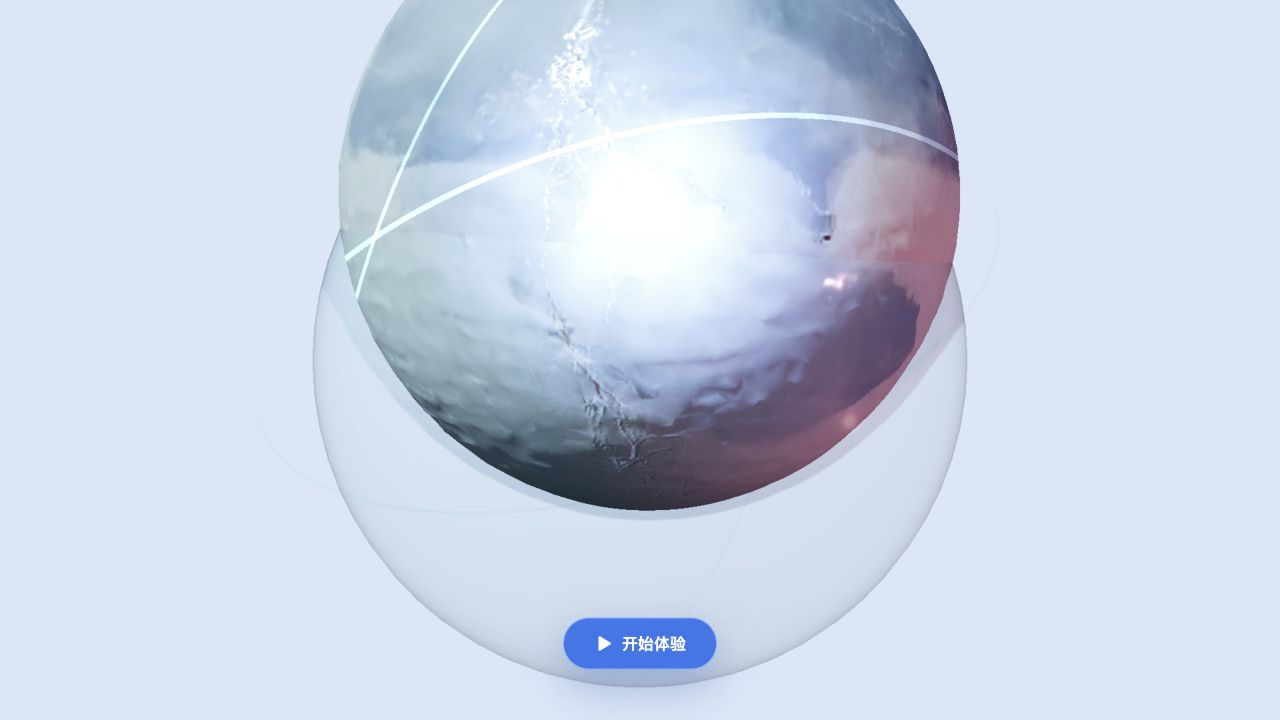
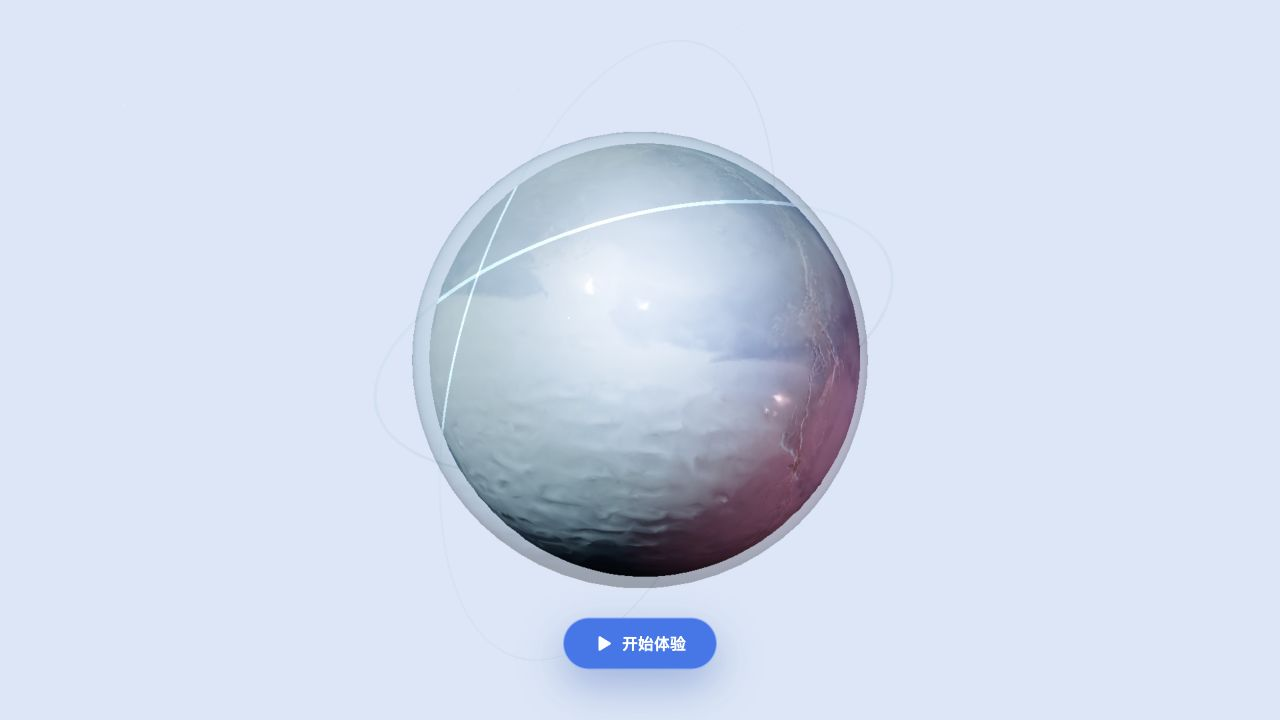
fix: restore live room and tune smile detection
Published from verified local build.

diff --git a/app/components/SmileStormExperience.tsx b/app/components/SmileStormExperience.tsx
@@ -10,8 +10,26 @@ import {
   type ErrorInfo,
   type ReactNode,
 } from "react";
+import { Broadcast } from "@phosphor-icons/react/Broadcast";
+import { CalendarDots } from "@phosphor-icons/react/CalendarDots";
+import { ChatCircleDots } from "@phosphor-icons/react/ChatCircleDots";
+import { Compass } from "@phosphor-icons/react/Compass";
+import { CornersOut } from "@phosphor-icons/react/CornersOut";
+import { Crown } from "@phosphor-icons/react/Crown";
 import { Gift } from "@phosphor-icons/react/Gift";
+import { Heart } from "@phosphor-icons/react/Heart";
+import { House } from "@phosphor-icons/react/House";
+import { MagnifyingGlass } from "@phosphor-icons/react/MagnifyingGlass";
+import { MonitorPlay } from "@phosphor-icons/react/MonitorPlay";
+import { Planet } from "@phosphor-icons/react/Planet";
 import { Play } from "@phosphor-icons/react/Play";
+import { ShareNetwork } from "@phosphor-icons/react/ShareNetwork";
+import { SpeakerHigh } from "@phosphor-icons/react/SpeakerHigh";
+import { SpeakerSlash } from "@phosphor-icons/react/SpeakerSlash";
+import { Star } from "@phosphor-icons/react/Star";
+import { StopCircle } from "@phosphor-icons/react/StopCircle";
+import { Users } from "@phosphor-icons/react/Users";
+import { VideoCamera } from "@phosphor-icons/react/VideoCamera";
 import surpriseAudioUrl from "../assets/audio/surprise.mp3?url";
 import rainAudioUrl from "../assets/audio/rain-loop.mp3?url";
 import fireworksAudioUrl from "../assets/audio/fireworks-loop.mp3?url";
@@ -179,7 +197,11 @@ export function SmileStormExperience() {
   const [fireworkSceneActive, setFireworkSceneActive] = useState(false);
   const [expressionGuideStep, setExpressionGuideStep] =
     useState<ExpressionGuideStep>("SMILE_PROMPT");
+  const [muted, setMuted] = useState(false);
   const [activeDrop, setActiveDrop] = useState<ActiveAccessoryDrop | null>(null);
+  const [liked, setLiked] = useState(false);
+  const [favorite, setFavorite] = useState(false);
+  const [searchQuery, setSearchQuery] = useState("");
   const [replayActive, setReplayActive] = useState(false);
   const [debugEnabled] = useState(
     () =>
@@ -338,6 +360,24 @@ export function SmileStormExperience() {
     setCalibrationProgress(0);
     setMetrics(defaultMetrics);
     setPhaseState("idle");
+  };
+
+  const toggleMuted = () => {
+    setMuted((current) => {
+      const next = !current;
+      ensureEffectAudio().setMuted(next);
+      return next;
+    });
+  };
+
+  const toggleLike = () => {
+    setLiked((current) => !current);
+  };
+
+  const toggleFullscreen = () => {
+    const room = document.querySelector<HTMLElement>(".live-room");
+    if (!document.fullscreenElement) void room?.requestFullscreen();
+    else void document.exitFullscreen();
   };
 
   useEffect(() => {
@@ -796,8 +836,44 @@ export function SmileStormExperience() {
   );
 
   return (
-    <main className={`experience-shell minimal-experience phase-${phase}`}>
-      <section className="minimal-stage" aria-label="表情 AR 体验">
+    <main className={`experience-shell phase-${phase}${phase === "idle" ? " minimal-experience" : " live-room-shell"}`}>
+      <section className={phase === "idle" ? "minimal-stage" : "live-room"} aria-label="表情 AR 体验">
+        {isExperienceVisible && (
+          <header className="live-room-nav">
+            <div className="live-brand" aria-label="Smile Storm Live">
+              <Broadcast size={22} weight="fill" aria-hidden="true" />
+              <strong>Smile<span>Live</span></strong>
+            </div>
+            <nav className="live-nav-links" aria-label="直播导航">
+              <button type="button"><House size={17} />首页</button>
+              <button type="button" className="active"><VideoCamera size={17} />直播</button>
+              <button type="button"><Compass size={17} />发现</button>
+              <button type="button"><CalendarDots size={17} />活动</button>
+              <button type="button"><Users size={17} />关注</button>
+            </nav>
+            <form className="live-search" onSubmit={(event) => event.preventDefault()} role="search">
+              <MagnifyingGlass size={17} aria-hidden="true" />
+              <input
+                aria-label="搜索直播、房间或内容"
+                value={searchQuery}
+                onChange={(event) => setSearchQuery(event.target.value)}
+                placeholder="搜索直播、房间或内容"
+              />
+            </form>
+            <div className="live-nav-actions">
+              <button type="button"><Crown size={17} weight="fill" />会员</button>
+              <button type="button" onClick={() => setFavorite((current) => !current)} aria-pressed={favorite}>
+                <Heart size={17} weight={favorite ? "fill" : "regular"} />收藏
+              </button>
+              <button type="button" className="go-live-button" onClick={stopExperience}>
+                <StopCircle size={18} weight="fill" />结束
+              </button>
+            </div>
+          </header>
+        )}
+
+        <div className={phase === "idle" ? "minimal-stage-content" : "live-room-grid"}>
+          <section className={phase === "idle" ? "minimal-home-stage" : "live-room-center"} aria-label="直播舞台">
             <div
               className={`live-video-frame live-stage${replayActive ? " replay-mode" : ""}`}
               ref={viewportRef}
@@ -917,20 +993,6 @@ export function SmileStormExperience() {
                 </div>
               )}
 
-              {debugEnabled && isExperienceVisible && (
-                <div className="minimal-debug-controls" aria-label="调试工具">
-                  {(phase === "calibrating" || phase === "ready") && (
-                    <button className="debug-toggle" onClick={launchDebugFireworks}>测试烟花</button>
-                  )}
-                  {phase === "ready" && (
-                    <button className="debug-toggle" onClick={launchDebugAccessory}>测试3D礼物</button>
-                  )}
-                  <button className="debug-toggle" onClick={() => setShowDebug((visible) => !visible)} aria-pressed={showDebug}>
-                    {showDebug ? "隐藏数据" : "运行数据"}
-                  </button>
-                </div>
-              )}
-
               {phase === "error" && (
                 <div className="error-panel" role="alert">
                   <span className="error-code">AR / ERROR</span>
@@ -943,6 +1005,69 @@ export function SmileStormExperience() {
                 </div>
               )}
             </div>
+
+            {isExperienceVisible && (
+              <footer className="live-room-toolbar" aria-label="直播操作栏">
+                <div className="toolbar-group toolbar-primary">
+                  <button className="round-action primary" onClick={stopExperience} aria-label="结束直播">
+                    <StopCircle size={22} weight="fill" />
+                  </button>
+                  <button className="round-action" onClick={toggleMuted} aria-pressed={muted} aria-label={muted ? "开启声音" : "关闭声音"}>
+                    {muted ? <SpeakerSlash size={20} /> : <SpeakerHigh size={20} />}
+                  </button>
+                  <button className="toolbar-button" type="button"><ChatCircleDots size={18} />弹幕开</button>
+                </div>
+                <div className="toolbar-group toolbar-social">
+                  <button className={liked ? "toolbar-button selected" : "toolbar-button"} onClick={toggleLike} aria-pressed={liked}><Heart size={19} weight={liked ? "fill" : "regular"} />点赞</button>
+                  <button className="toolbar-button" type="button"><Gift size={19} />送礼</button>
+                  <button className={favorite ? "toolbar-button selected" : "toolbar-button"} onClick={() => setFavorite((current) => !current)} aria-pressed={favorite}><Star size={19} weight={favorite ? "fill" : "regular"} />收藏</button>
+                  <button className="toolbar-button" type="button" onClick={() => void navigator.clipboard?.writeText(window.location.href)}><ShareNetwork size={19} />分享</button>
+                </div>
+                <div className="toolbar-group toolbar-view">
+                  <span className="quality-pill"><MonitorPlay size={18} />{metrics.quality === "HIGH" ? "超清" : metrics.quality}</span>
+                  {debugEnabled && (phase === "calibrating" || phase === "ready") && <button className="debug-toggle" onClick={launchDebugFireworks}>测试烟花</button>}
+                  {debugEnabled && phase === "ready" && <button className="debug-toggle" onClick={launchDebugAccessory}>测试3D礼物</button>}
+                  {debugEnabled && isExperienceVisible && (
+                    <button className="debug-toggle" onClick={() => setShowDebug((visible) => !visible)} aria-pressed={showDebug}>{showDebug ? "隐藏数据" : "运行数据"}</button>
+                  )}
+                  <button className="round-action" onClick={toggleFullscreen} aria-label="切换全屏"><CornersOut size={20} /></button>
+                </div>
+              </footer>
+            )}
+          </section>
+
+          {isExperienceVisible && (
+            <aside className="live-room-right" aria-label="直播信息与礼物">
+              <section className="live-card live-info-card">
+                <header><h3>直播信息</h3><Broadcast size={18} /></header>
+                <dl>
+                  <div><dt>直播状态</dt><dd className="is-live">直播中</dd></div>
+                  <div><dt>画质</dt><dd>720P</dd></div>
+                  <div><dt>码率</dt><dd>自适应</dd></div>
+                  <div><dt>渲染</dt><dd>{metrics.renderFps ? `${metrics.renderFps.toFixed(0)} fps` : "60 fps"}</dd></div>
+                  <div><dt>隐私</dt><dd>本机处理</dd></div>
+                </dl>
+                <p>摄像头画面仅在本机处理，不会上传或保存。</p>
+              </section>
+              <section className="live-card live-gifts-card">
+                <header><h3>AR 礼物</h3><Gift size={18} /></header>
+                <p>不需点选，只会在天气特效中低概率短暂掉落。</p>
+                <div className="gift-grid"><article><span><Planet size={28} weight="duotone" /></span><b>星轨光环</b><small>天气随机</small></article></div>
+                <div className="gift-drop-policy" aria-label="稀有礼物掉落规则">
+                  <span><b>6%/秒</b> 雨中稀有掉落</span><span><b>18%/次</b> 烟花稀有掉落</span><span><b>1 秒</b> 仅展示 1 秒</span>
+                </div>
+              </section>
+              <section className="live-card contributor-card">
+                <header><h3>礼物贡献榜</h3><Crown size={18} weight="fill" /></header>
+                <ol>
+                  <li><span>1</span><div><b>Stella</b><small>星轨守护者</small></div><strong>12.8k</strong></li>
+                  <li><span>2</span><div><b>NOVA</b><small>未来旅人</small></div><strong>9.6k</strong></li>
+                  <li><span>3</span><div><b>Cloud</b><small>风暴听众</small></div><strong>6.2k</strong></li>
+                </ol>
+              </section>
+            </aside>
+          )}
+        </div>
       </section>
     </main>
   );

diff --git a/app/globals.css b/app/globals.css
@@ -328,7 +328,8 @@ button:focus-visible { outline: 2px solid var(--cyan); outline-offset: 4px; }
 /* Minimal presentation shell: the idle screen is deliberately only the 3D core and CTA. */
 .minimal-experience { width: 100%; height: 100svh; min-height: 520px; background: #070b13; }
 .minimal-stage { position: relative; width: 100%; height: 100%; overflow: hidden; }
-.minimal-stage > .live-video-frame { width: 100%; height: 100%; min-height: 0; aspect-ratio: auto; border: 0; border-radius: 0; box-shadow: none; }
+.minimal-stage-content, .minimal-home-stage { width: 100%; height: 100%; }
+.minimal-home-stage > .live-video-frame { width: 100%; height: 100%; min-height: 0; aspect-ratio: auto; border: 0; border-radius: 0; box-shadow: none; }
 .minimal-home { position: absolute; inset: 0; overflow: hidden; background: #070b13; }
 .minimal-home .weather-core { position: absolute; inset: 0; width: 100%; height: 100%; min-height: 0; border: 0; box-shadow: none; }
 .minimal-home .weather-core::before,
@@ -336,10 +337,9 @@ button:focus-visible { outline: 2px solid var(--cyan); outline-offset: 4px; }
 .minimal-home .weather-core-vignette { display: none; }
 .minimal-start { position: absolute; z-index: 5; left: 50%; bottom: clamp(28px, 7svh, 72px); transform: translateX(-50%); min-width: 154px; min-height: 52px; justify-content: center; padding: 0 25px; border: 1px solid rgba(255,255,255,.4); background: rgba(37,111,238,.92); box-shadow: 0 16px 42px rgba(16,70,172,.34); }
 .minimal-start:hover { transform: translateX(-50%) translateY(-1px); }
-.minimal-debug-controls { position: absolute; z-index: 12; right: 18px; bottom: 18px; display: flex; gap: 8px; }
+.phase-idle { overflow: hidden; }
 
 @media (max-width: 540px) {
   .minimal-experience { min-height: 480px; }
   .minimal-start { bottom: max(24px, env(safe-area-inset-bottom)); }
-  .minimal-debug-controls { right: 10px; bottom: 10px; max-width: calc(100% - 20px); overflow-x: auto; }
 }

diff --git a/tests/expression-machine.test.ts b/tests/expression-machine.test.ts
@@ -59,6 +59,29 @@ describe("ExpressionMachine", () => {
     expect(feed(machine, smile, 200, 250).state).toBe("SMILE");
   });
 
+  it("recognizes a gentle smile without requiring an exaggerated expression", () => {
+    const machine = new ExpressionMachine({ smile: 0.05, jaw: 0.04, cheek: 0.05, mouthOpen: 0.02 });
+    feed(machine, neutral, 0, 250);
+    const gentleSmile = {
+      ...neutral,
+      mouthSmileLeft: 0.38,
+      mouthSmileRight: 0.38,
+    };
+
+    expect(feed(machine, gentleSmile, 300, 500).state).toBe("SMILE");
+  });
+
+  it("keeps a relaxed face below the lowered smile threshold neutral", () => {
+    const machine = new ExpressionMachine({ smile: 0.05, jaw: 0.04, cheek: 0.05, mouthOpen: 0.02 });
+    const relaxed = {
+      ...neutral,
+      mouthSmileLeft: 0.28,
+      mouthSmileRight: 0.28,
+    };
+
+    expect(feed(machine, relaxed, 0, 800).state).toBe("NEUTRAL");
+  });
+
   it("gives laugh priority, launches once, and stays latched until neutral", () => {
     const machine = new ExpressionMachine({ smile: 0.05, jaw: 0.04, cheek: 0.05, mouthOpen: 0.02 });
     const laugh = {

diff --git a/app/components/WeatherCoreHero.tsx b/app/components/WeatherCoreHero.tsx
@@ -35,7 +35,8 @@ export function WeatherCoreHero() {
     const scene = new THREE.Scene();
     scene.fog = new THREE.FogExp2(0x050811, 0.075);
     const camera = new THREE.PerspectiveCamera(33, 1, 0.1, 100);
-    camera.position.set(0, 0, 4.15);
+    camera.position.set(0, 0, 5.85);
+    camera.lookAt(0, 0, 0);
 
     let renderer: THREE.WebGLRenderer;
     try {
@@ -134,8 +135,9 @@ export function WeatherCoreHero() {
         const box = new THREE.Box3().setFromObject(model);
         const size = box.getSize(new THREE.Vector3());
         const center = box.getCenter(new THREE.Vector3());
-        model.position.sub(center);
-        model.scale.setScalar(2.05 / Math.max(size.x, size.y, size.z));
+        const scaleFactor = 2.05 / Math.max(size.x, size.y, size.z);
+        model.scale.setScalar(scaleFactor);
+        model.position.copy(center).multiplyScalar(-scaleFactor);
         model.rotation.set(0.04, -0.3, -0.03);
         model.traverse((child) => {
           if (!(child instanceof THREE.Mesh)) return;

diff --git a/app/lib/expression-machine.ts b/app/lib/expression-machine.ts
@@ -98,7 +98,7 @@ export class ExpressionMachine {
     const mouthOpenRatio = this.smoothed.mouthOpenRatio;
     const teethVisibility = this.smoothed.teethVisibility;
 
-    const smileEnter = Math.max(this.baselines.smile + 0.18, 0.45);
+    const smileEnter = Math.max(this.baselines.smile + 0.14, 0.34);
     const smileExit = Math.max(this.baselines.smile + 0.1, 0.32);
     const laughSmile = Math.max(this.baselines.smile + 0.22, 0.5);
     const moderateLaughSmile = Math.max(this.baselines.smile + 0.16, 0.36);

diff --git a/design-qa.md b/design-qa.md
@@ -9,12 +9,12 @@
 
 ## Full-view comparison evidence
 
-The implementation removes the reference's title, labels, legends, navigation, side rail and toolbar. The visible page contains only the centered weather core and one centered CTA, matching the requested simplification. The stage fills the viewport with no overflow or cropped persistent controls.
+The idle implementation removes the reference's title, labels, legends, navigation, side rail and toolbar. The visible idle page contains only the centered weather core and one CTA. After the CTA is activated, the complete live-room navigation, AR stage, information rail and toolbar return.
 
 ## Required fidelity surfaces
 
 - Fonts and typography: only the CTA label remains; its size, weight and contrast are legible and consistent with the existing blue primary action.
-- Spacing and layout rhythm: the WebGL stage occupies 1280 × 720; the camera and model roots are centered at zero; the 154 × 52 CTA is horizontally centered below the sphere.
+- Spacing and layout rhythm: the WebGL stage occupies 1280 × 720; the GLB is centered using its scaled world-space bounding-box center; the 154 × 52 CTA is horizontally centered below the sphere.
 - Colors and visual tokens: the pale storm palette and blue CTA are retained from the source product.
 - Image quality and asset fidelity: the original optimized cinematic GLB is retained; no placeholder or code-drawn substitute is introduced.
 - Copy and content: the idle page exposes only “开始体验”, as requested.
@@ -24,7 +24,7 @@ Focused-region comparison was unnecessary because all non-asset content is a sin
 ## Interaction and runtime evidence
 
 - Primary CTA click tested in deterministic replay mode.
-- After click, the AR stage, expression state, performance panel and debug controls rendered.
+- After click, the complete live-room navigation, AR stage, information rail, toolbar, expression state and debug controls rendered.
 - DOM inspection found exactly one idle button and one WebGL canvas.
 - No browser console error was observed during idle load or replay transition.
 
@@ -34,8 +34,8 @@ No actionable P0, P1 or P2 differences remain. The reference's larger editorial 
 
 ## Comparison history
 
-- Initial implementation: legacy navigation, information rail, toolbar, title and labels competed with the model.
-- Fix: removed those regions, made the stage full-viewport, zeroed the Three.js camera/root vertical offsets, and centered the CTA below the model.
-- Post-fix evidence: `artifacts/minimal-home.png`; measured stage 1280 × 720, model camera/root Y = 0, CTA X center = 640.
+- Initial implementation: live-room chrome competed with the idle model, then an incorrect fix removed it from the active experience too. The GLB also applied unscaled center compensation after setting scale, leaving the visible asset vertically offset.
+- Fix: isolate the minimal shell to `idle`, restore all live-room regions after activation, and compensate the GLB position with its scaled bounding-box center.
+- Post-fix evidence: `artifacts/minimal-home.png`; idle has exactly one button and no live chrome, while deterministic replay confirms navigation, toolbar and information rail are present.
 
 final result: passed
